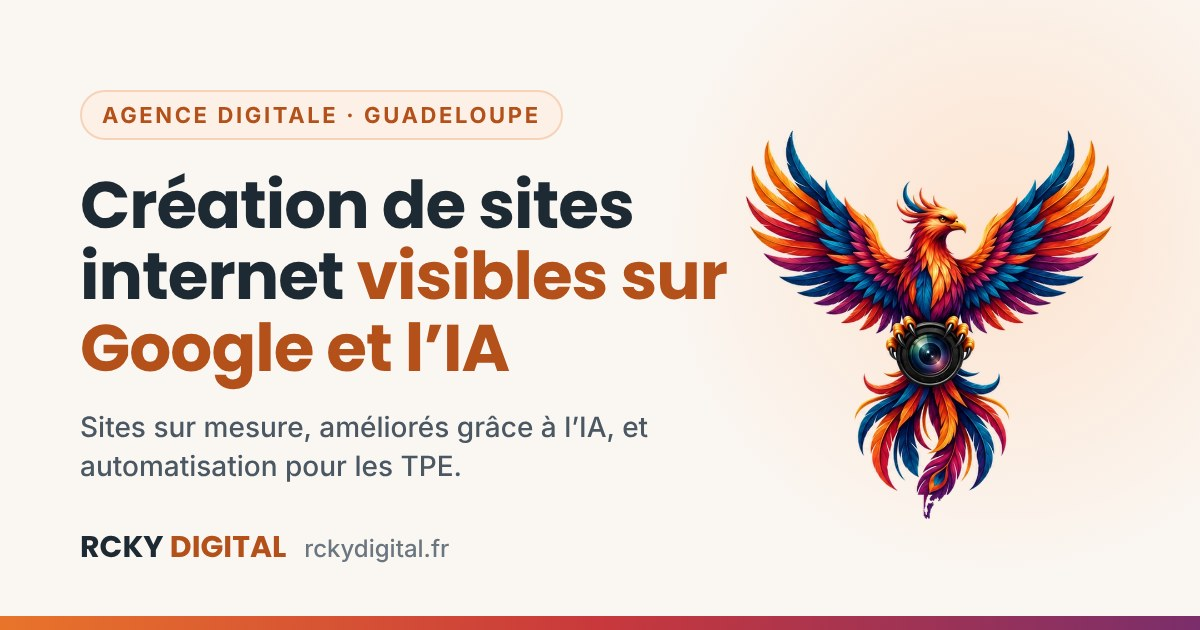
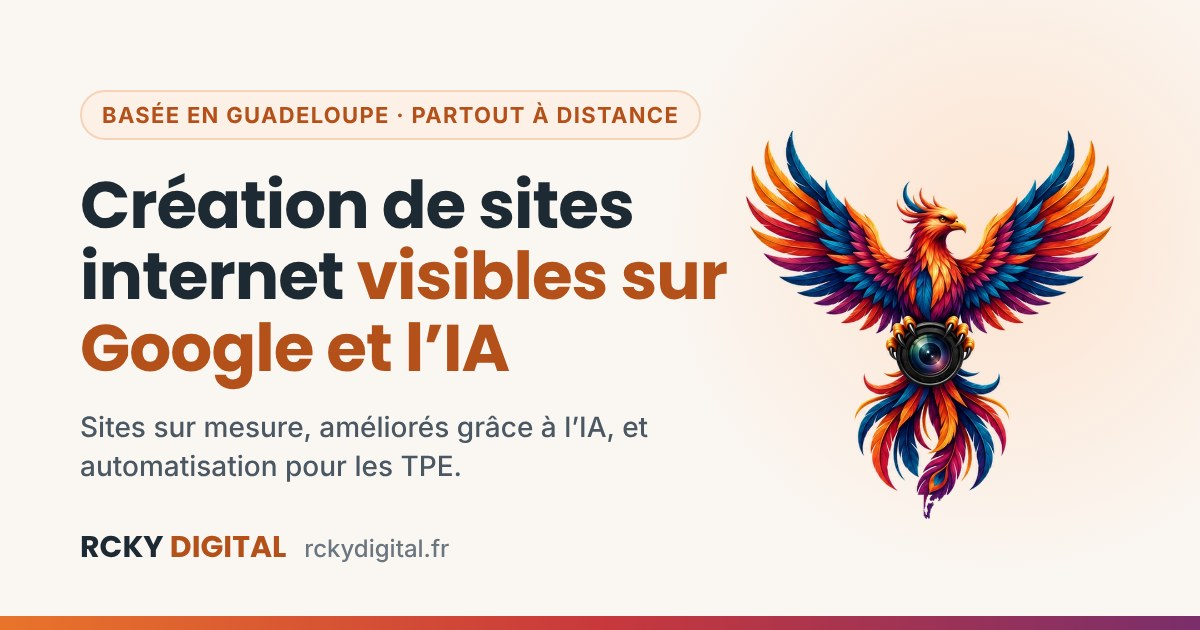
Positionnement élargi : sites pour tous, partout à distance (basés en Guadeloupe, spécialité antillaise conservée)
Claude-Session: https://claude.ai/code/session_011py5Ddiy3d51X7TSvcz2C4

Changed region(s): [[0.0925, 0.1206, 0.5858, 0.2413]]

diff --git a/app/layout.tsx b/app/layout.tsx
@@ -8,16 +8,18 @@ import { SITE, SERVICES, LAST_UPDATE, priceNumber, OG_IMAGE } from '@/lib/consta
 export const metadata: Metadata = {
   metadataBase: new URL(SITE.url),
   title: {
-    default: `${SITE.name} | Agence digitale en Guadeloupe`,
+    default: `${SITE.name} | Création de sites internet sur mesure`,
     template: `%s | ${SITE.name}`,
   },
   description: SITE.metaDescription,
   keywords: [
+    'création site internet',
+    'création site internet sur mesure',
+    'agence web',
     'création site internet Guadeloupe',
     'agence web Guadeloupe',
-    'agence digitale Guadeloupe',
-    'site internet réservation Guadeloupe',
-    'référencement Google Guadeloupe',
+    'site internet avec réservation',
+    'référencement Google',
     'visibilité ChatGPT entreprise',
     'automatisation IA TPE',
     'site internet 971',
@@ -30,7 +32,7 @@ export const metadata: Metadata = {
     locale: 'fr_FR',
     url: SITE.url,
     siteName: SITE.name,
-    title: `${SITE.name} | Agence digitale en Guadeloupe`,
+    title: `${SITE.name} | Création de sites internet sur mesure`,
     description: SITE.metaDescription,
     images: [OG_IMAGE],
   },
@@ -57,7 +59,7 @@ const schemaOrg = {
       '@type': 'ProfessionalService',
       '@id': `${SITE.url}/#business`,
       name: SITE.name,
-      alternateName: 'RCKY DIGITAL, agence digitale en Guadeloupe',
+      alternateName: 'RCKY DIGITAL, agence de création de sites internet',
       founder: { '@type': 'Person', name: SITE.owner, jobTitle: 'Fondateur, marketing digital' },
       description: SITE.description,
       url: SITE.url,
@@ -67,7 +69,7 @@ const schemaOrg = {
       email: SITE.email,
       priceRange: '60 € - 800 €',
       currenciesAccepted: 'EUR',
-      areaServed: [{ '@type': 'AdministrativeArea', name: 'Guadeloupe' }],
+      areaServed: [{ '@type': 'AdministrativeArea', name: 'Guadeloupe' }, { '@type': 'Country', name: 'France' }, { '@type': 'Place', name: 'International (à distance)' }],
       address: { '@type': 'PostalAddress', addressRegion: 'Guadeloupe', addressCountry: 'FR' },
       knowsAbout: ['Création de sites internet', 'Référencement local', 'Visibilité dans les moteurs de réponse IA (GEO)', 'Fiche d’établissement Google', 'Automatisation IA', 'Marketing digital', 'Photographie', 'Vidéo'],
       sameAs: [SITE.social.instagram, SITE.social.google, SITE.social.linkedin],
@@ -76,7 +78,7 @@ const schemaOrg = {
         name: 'Services RCKY DIGITAL',
         itemListElement: SERVICES.filter((sv) => priceNumber(sv.price)).map((sv) => ({
           '@type': 'Offer',
-          itemOffered: { '@type': 'Service', name: sv.title, description: sv.description, areaServed: 'Guadeloupe' },
+          itemOffered: { '@type': 'Service', name: sv.title, description: sv.description, areaServed: ['Guadeloupe', 'France'] },
           priceSpecification: { '@type': 'PriceSpecification', minPrice: priceNumber(sv.price), priceCurrency: 'EUR' },
         })),
       },

diff --git a/lib/constants.ts b/lib/constants.ts
@@ -9,10 +9,10 @@ export const SITE = {
   owner: 'Ricky GALIN',
   tagline: 'Photos, vidéos et sites qui donnent envie de réserver',
   description:
-    "RCKY DIGITAL, agence digitale en Guadeloupe : création de sites internet sur mesure, améliorés grâce à l’IA pour être livrés plus vite et à moindre coût, et visibilité sur Google et dans les réponses des IA comme ChatGPT (GEO) pour les entreprises locales. Aussi : photo, vidéo, réseaux sociaux, et Automation Lab, des automatisations IA construites avec Claude, à distance.",
+    "RCKY DIGITAL, agence digitale basée en Guadeloupe : création de sites internet sur mesure pour tous les secteurs, partout en France et à distance, améliorés grâce à l’IA pour être livrés plus vite et à moindre coût, et visibilité sur Google et dans les réponses des IA comme ChatGPT (GEO). Aussi : photo, vidéo, réseaux sociaux, et Automation Lab, des automatisations IA construites avec Claude, à distance.",
   // Description courte (≤ 160 caractères) pour les balises meta
   metaDescription:
-    'Agence digitale en Guadeloupe : création de sites internet sur mesure, améliorés grâce à l’IA, visibles sur Google et ChatGPT. Devis gratuit sous 48 h.',
+    'Création de sites internet sur mesure, améliorés grâce à l’IA et visibles sur Google et ChatGPT. Agence basée en Guadeloupe, partout à distance. Devis 48 h.',
   url: process.env.NEXT_PUBLIC_SITE_URL || 'https://www.rckydigital.fr',
   email: 'contact@rckydigital.fr',
   phone: '+590 690 05 73 87',
@@ -68,7 +68,7 @@ export const AUDIT_IA = {
 
 // Création de site internet sur devis (page /tarifs)
 // Image de partage (réseaux sociaux, aperçus de liens) : 1200x630
-export const OG_IMAGE = { url: '/og-rcky-digital.jpg', width: 1200, height: 630, alt: 'RCKY DIGITAL, agence digitale en Guadeloupe : création de sites internet visibles sur Google et l’IA' }
+export const OG_IMAGE = { url: '/og-rcky-digital.jpg', width: 1200, height: 630, alt: 'RCKY DIGITAL : création de sites internet sur mesure, visibles sur Google et l’IA' }
 export const SITE_DEVIS = { id: 'site-sur-mesure', title: 'Création de site internet (sur devis)' }
 
 // Les 3 offres (catalogue validé par Ricky le 2026-10-14)
@@ -301,7 +301,7 @@ export const FAQ = [
   },
   {
     q: 'Quels types d’entreprises accompagnez-vous ?',
-    a: 'Surtout les petites entreprises de Guadeloupe : gîtes, villas et locations saisonnières, excursions et activités, salons de coiffure, instituts de beauté, barbiers, ongleries et commerces locaux.',
+    a: 'Toutes les entreprises qui veulent un site efficace, en Guadeloupe comme ailleurs : commerces, artisans, gîtes et locations, beauté, restauration, services, indépendants et PME. Nous connaissons particulièrement bien le marché antillais, et nous travaillons à distance avec tout le monde.',
   },
   {
     q: 'Le site avec réservation inclut-il l’abonnement ?',

diff --git a/app/llms.txt/route.ts b/app/llms.txt/route.ts
@@ -9,7 +9,7 @@ export function GET() {
     '',
     `> ${SITE.description}`,
     '',
-    `Agence digitale basée en Guadeloupe (971), fondée par ${SITE.owner} (Mastère E-business). Spécialité : création de sites internet sur mesure, améliorés grâce à l’IA pour être livrés plus vite et à moindre coût, et visibilité des entreprises locales sur Google et dans les réponses des IA (ChatGPT, Gemini, Perplexity), aussi appelée GEO. Clients : petites entreprises de Guadeloupe (artisans, commerces, beauté, tourisme, services). Audit gratuit « Votre entreprise est-elle visible par l’IA ? ». Prix finaux, TVA non applicable (art. 293 B du CGI). Mise à jour : ${LAST_UPDATE}.`,
+    `Agence digitale basée en Guadeloupe (971), fondée par ${SITE.owner} (Mastère E-business). Spécialité : création de sites internet sur mesure, améliorés grâce à l’IA pour être livrés plus vite et à moindre coût, et visibilité des entreprises sur Google et dans les réponses des IA (ChatGPT, Gemini, Perplexity), aussi appelée GEO. Clients : entreprises de tous secteurs, en Guadeloupe, en France et à l’international, à distance (artisans, commerces, beauté, tourisme, services, PME), avec une spécialité du marché antillais. Audit gratuit « Votre entreprise est-elle visible par l’IA ? ». Prix finaux, TVA non applicable (art. 293 B du CGI). Mise à jour : ${LAST_UPDATE}.`,
     '',
     '## Pages',
     `- [Accueil](${SITE.url}/): présentation de l'agence et de ses services`,
@@ -34,7 +34,7 @@ export function GET() {
     `- Téléphone / WhatsApp : ${SITE.phone}`,
     `- E-mail : ${SITE.email}`,
     `- Instagram : ${SITE.social.instagram}`,
-    `- Zone : toute la Guadeloupe, et à distance`,
+    `- Zone : clients partout en France et à l’international, à distance ; spécialiste du marché antillais (Guadeloupe)`,
     '',
   ]
   return new Response(lines.join('\n'), { headers: { 'Content-Type': 'text/plain; charset=utf-8' } })

diff --git a/lib/guides.ts b/lib/guides.ts
@@ -329,7 +329,7 @@ export const GUIDES: Guide[] = [
     title: 'Instagram suffit-il, ou faut-il un site internet pour son entreprise ?',
     metaTitle: 'Instagram ou site internet : que choisir ?',
     description:
-      'Instagram et Facebook suffisent-ils pour une petite entreprise en Guadeloupe ? Ce que les réseaux font bien, leurs limites, et quand un site devient utile.',
+      'Instagram et Facebook suffisent-ils pour une petite entreprise ? Ce que les réseaux font bien, leurs limites, et quand un site internet devient utile.',
     answer:
       'Les réseaux sociaux sont parfaits pour vous faire connaître, mais votre compte ne vous appartient pas : un piratage, une suspension ou un changement de règles peut vous couper de vos clients du jour au lendemain. Un site à votre nom reste en place, apparaît sur Google et dans les réponses des IA, et peut recevoir des réservations. L’idéal : les réseaux attirent, le site convertit.',
     published: '2026-11-25',
@@ -466,8 +466,8 @@ export const GUIDES: Guide[] = [
   },
   {
     slug: 'reservation-en-ligne-petite-entreprise',
-    title: 'Prise de rendez-vous en ligne : comment faire pour une petite entreprise en Guadeloupe ?',
-    metaTitle: 'Prise de rendez-vous en ligne en Guadeloupe',
+    title: 'Prise de rendez-vous en ligne : comment faire pour une petite entreprise ?',
+    metaTitle: 'Prise de rendez-vous en ligne : comment faire',
     description:
       'Salon, institut, lavage auto, artisan, traiteur : comment proposer la prise de rendez-vous ou la demande en ligne, sans perdre le contact avec vos clients.',
     answer:

diff --git a/app/guides/page.tsx b/app/guides/page.tsx
@@ -4,9 +4,9 @@ import { SITE } from '@/lib/constants'
 import { GUIDES } from '@/lib/guides'
 
 export const metadata: Metadata = {
-  title: 'Guides pour les entreprises de Guadeloupe',
+  title: 'Guides pratiques pour les petites entreprises',
   description:
-    'Prix d’un site, visibilité Google et ChatGPT, gîtes, réservation en ligne, Instagram : des réponses claires pour les petites entreprises de Guadeloupe.',
+    'Prix d’un site, visibilité Google et ChatGPT, gîtes, réservation en ligne, Instagram : des réponses claires pour les petites entreprises, ici et ailleurs.',
   alternates: { canonical: `${SITE.url}/guides` },
 }
 
@@ -17,7 +17,7 @@ export default function GuidesPage() {
         <div className="container-site">
           <span className="eyebrow">Guides</span>
           <h1 className="mt-5 max-w-3xl text-4xl font-extrabold tracking-tight text-ink md:text-5xl">
-            Des réponses claires pour les entreprises de Guadeloupe.
+            Des réponses claires pour les petites entreprises.
           </h1>
           <p className="section-subtitle">Les questions qu’on nous pose le plus, avec nos vrais prix et sans jargon.</p>
         </div>

diff --git a/components/pages/HomePage.tsx b/components/pages/HomePage.tsx
@@ -8,14 +8,14 @@ import { r, type Lang } from '@/lib/i18n'
 
 const T = {
   fr: {
-    kicker: 'Création de sites internet en Guadeloupe · IA',
+    kicker: 'Création de sites internet sur mesure · IA',
     h1a: 'Plus de clients,',
     h1b: 'moins de tâches répétitives.',
     lead: 'RCKY DIGITAL aide les entreprises à être trouvées et à mieux traiter leurs demandes : visibilité locale en Guadeloupe, et automatisations IA construites avec Claude, partout à distance.',
     cta1: 'Réserver un appel de 15 min',
     cta2: 'Voir la démo LeadFlow',
     noCard: 'Gratuit · Par téléphone ou WhatsApp · Sans engagement',
-    facts: [['globe', 'Basé en Guadeloupe'], ['link', 'Automatisation 100 % à distance'], ['bolt', 'Construit avec Claude (Anthropic)'], ['clock', 'Réponse sous 48 h']],
+    facts: [['globe', 'Basé en Guadeloupe, partout à distance'], ['link', 'Automatisation 100 % à distance'], ['bolt', 'Construit avec Claude (Anthropic)'], ['clock', 'Réponse sous 48 h']],
     twoKicker: 'Deux expertises',
     twoTitle: 'Une agence, deux façons de faire grandir votre activité',
     labTitle: 'Automation Lab',

diff --git a/app/audit-ia/page.tsx b/app/audit-ia/page.tsx
@@ -5,7 +5,7 @@ import { SITE, AUDIT_IA, LAST_UPDATE } from '@/lib/constants'
 export const metadata: Metadata = {
   title: 'Audit gratuit de visibilité IA et Google',
   description:
-    'Votre entreprise est-elle recommandée par ChatGPT et Google en Guadeloupe ? Audit gratuit : résultat sous 48 h et 3 actions concrètes, sans engagement.',
+    'Votre entreprise est-elle recommandée par ChatGPT et Google ? Audit gratuit : résultat sous 48 h et 3 actions concrètes, sans engagement.',
   alternates: { canonical: '/audit-ia' },
 }
 
@@ -58,7 +58,7 @@ const schema = {
       name: AUDIT_IA.title,
       description: AUDIT_IA.text,
       provider: { '@id': `${SITE.url}/#business` },
-      areaServed: { '@type': 'AdministrativeArea', name: 'Guadeloupe' },
+      areaServed: [{ '@type': 'AdministrativeArea', name: 'Guadeloupe' }, { '@type': 'Country', name: 'France' }],
       offers: { '@type': 'Offer', price: '0', priceCurrency: 'EUR' },
     },
     {

diff --git a/app/contact/page.tsx b/app/contact/page.tsx
@@ -4,7 +4,7 @@ import { SITE, SERVICES, OPTIONS, AUDIT, AUDIT_IA, SITE_DEVIS } from '@/lib/cons
 export const metadata: Metadata = {
   title: 'Contact et échange gratuit',
   description:
-    'Contactez RCKY DIGITAL pour un échange gratuit ou un devis : création de site internet, visibilité Google et IA, automatisation, en Guadeloupe.',
+    'Contactez RCKY DIGITAL pour un échange gratuit ou un devis : création de site internet, visibilité Google et IA, automatisation. Partout à distance.',
 }
 
 const inputClass =
@@ -60,7 +60,7 @@ export default function ContactPage({
             </a>
             <div className="card">
               <p className="text-sm text-ink-muted">Zone d’intervention</p>
-              <p className="mt-1 text-lg font-bold text-ink">Toute la Guadeloupe, et à distance</p>
+              <p className="mt-1 text-lg font-bold text-ink">Guadeloupe, et partout à distance</p>
             </div>
           </div>
 

diff --git a/app/tarifs/page.tsx b/app/tarifs/page.tsx
@@ -2,8 +2,8 @@ import type { Metadata } from 'next'
 import PricingPage from '@/components/pages/PricingPage'
 
 export const metadata: Metadata = {
-  title: 'Tarifs création de site internet en Guadeloupe',
-  description: 'Sites internet sur mesure en Guadeloupe (vitrine, réservation, boutique, refonte) sur devis gratuit sous 48 h, et tarifs publics de l’automatisation IA.',
+  title: 'Tarifs : création de site internet sur mesure',
+  description: 'Sites internet sur mesure (vitrine, réservation, boutique, refonte) sur devis gratuit sous 48 h, partout à distance, et tarifs publics de l’automatisation IA.',
   alternates: { canonical: '/tarifs', languages: { fr: '/tarifs', en: '/en/pricing' } },
 }
 

diff --git a/app/realisations/page.tsx b/app/realisations/page.tsx
@@ -4,8 +4,8 @@ import { REALISATIONS, VIDEOS } from '@/lib/constants'
 import VideoEmbed from '@/components/VideoEmbed'
 
 export const metadata: Metadata = {
-  title: 'Réalisations : sites et contenus en Guadeloupe',
-  description: 'Les projets réalisés par RCKY DIGITAL pour des entreprises de Guadeloupe : sites internet, vidéos et contenus, présentés avec l’accord des clients.',
+  title: 'Réalisations : sites internet et contenus',
+  description: 'Les projets réalisés par RCKY DIGITAL : sites internet, vidéos et contenus, présentés avec l’accord des clients.',
 }
 
 export default function RealisationsPage() {

diff --git a/app/services/page.tsx b/app/services/page.tsx
@@ -5,9 +5,9 @@ import InfoButton from '@/components/InfoButton'
 import ServiceCard from '@/components/ServiceCard'
 
 export const metadata: Metadata = {
-  title: 'Création de site et visibilité en Guadeloupe',
+  title: 'Services : création de site et visibilité',
   description:
-    'Site internet sur mesure (sur devis), Vitrine Pro (390 €), Visibilité Mensuelle (349 €/mois) : les offres de RCKY DIGITAL en Guadeloupe. Audit offert.',
+    'Site internet sur mesure (sur devis), Vitrine Pro (390 €), Visibilité Mensuelle (349 €/mois) : les offres de RCKY DIGITAL. Audit offert.',
 }
 
 

diff --git a/app/rendez-vous/page.tsx b/app/rendez-vous/page.tsx
@@ -3,7 +3,7 @@ import BookPage from '@/components/pages/BookPage'
 
 export const metadata: Metadata = {
   title: 'Réserver un appel découverte',
-  description: 'Appel gratuit de 15 minutes par téléphone ou WhatsApp : création de site internet sur mesure en Guadeloupe ou automatisation IA de vos demandes.',
+  description: 'Appel gratuit de 15 minutes par téléphone ou WhatsApp : création de site internet sur mesure ou automatisation IA de vos demandes.',
   alternates: { canonical: '/rendez-vous', languages: { fr: '/rendez-vous', en: '/en/book' } },
 }
 
